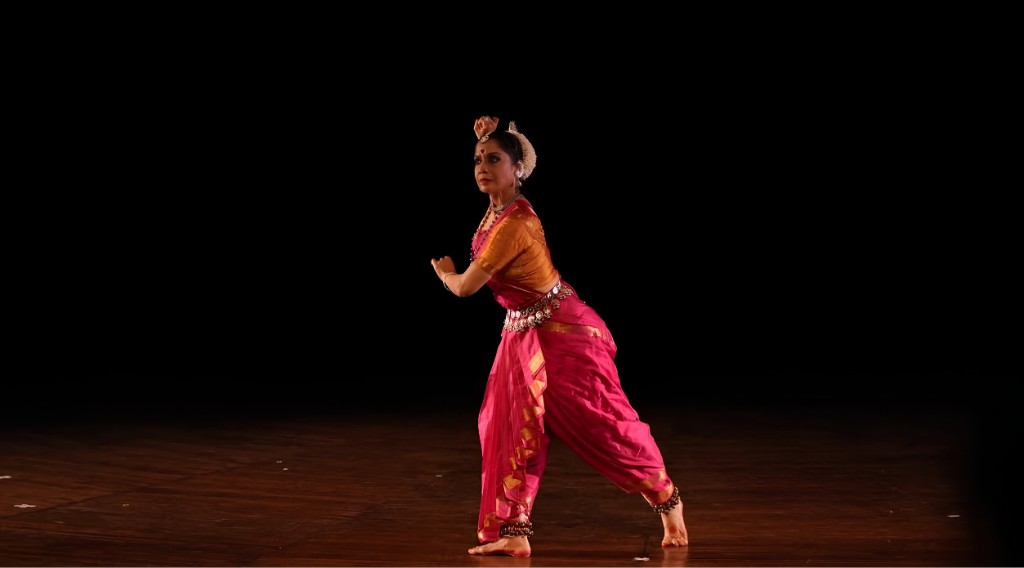
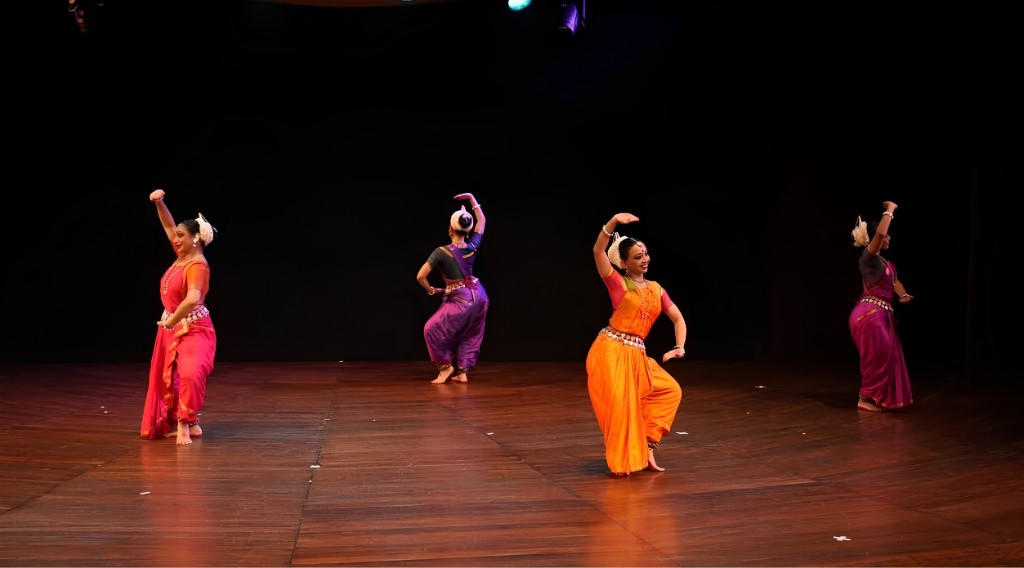
Point May 2026 at the final Drive PDF and refresh Living the Dance cover.
Use the new public Drive file for the flip-book source (162 pages) and
switch the Archives thumbnail to the Aakriti ensemble photo.

diff --git a/src/app/pages/archives/archives.html b/src/app/pages/archives/archives.html
@@ -47,7 +47,10 @@
       </a>
 
       <a class="card" routerLink="/articles/archives/living-the-dance">
-        <img src="assets/images/articles/living-the-dance-cover.jpg" alt="Living the Dance" />
+        <img
+          src="assets/images/articles/living-the-dance-cover.jpg"
+          alt="Nrityagram ensemble performing Aakriti"
+        />
         <span class="display overlay">
           Living the Dance: An enigmatic performance by the Nrityagram ensemble!
         </span>
